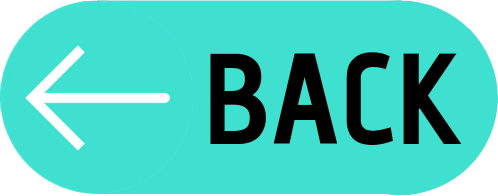
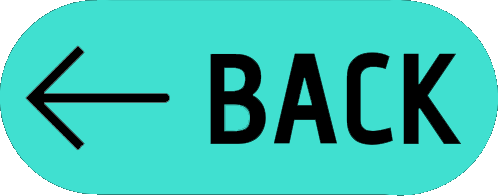
added back button on venues and colleges

diff --git a/templates/venuemain.html b/templates/venuemain.html
@@ -41,6 +41,9 @@
 
     <section class="probootstrap-section">
       <div class="container">
+        <div>
+        <a href="/profile"><img src="{{ url_for('static', filename='images/back.png') }}" width="100px"></a>  
+        </div> 
         <div class="row align-items-center">
           <div class="col-md pl-md-3 pl-0 probootstrap-image-grid">
             {% with messages = get_flashed_messages() %}
@@ -52,11 +55,11 @@
                     </ul>
                 {% endif %}
             {% endwith %}
-            <div class="row">
+            <div class="row" style="padding-top: 20px;">
 
               {% for college in colleges %}
               <div class="col-md-6">
-                <a class="probootstrap-img-item" href="/event/manage"><div style="background-image: url(../static/images/colleges/{{college.img}}); background-position: center;"></div></a>
+                <a class="probootstrap-img-item" href="/venue"><div style="background-image: url(../static/images/colleges/{{college.img}}); background-position: center;"></div></a>
                 <div class="texttest">
                   <p>{{ college.abb }}</p>
                 </div>

diff --git a/templates/dispvenue.html b/templates/dispvenue.html
@@ -42,6 +42,9 @@
 
     <section class="probootstrap-section">
       <div class="container">
+        <div>
+        <a href="/venue/manage"><img src="{{ url_for('static', filename='images/back.png') }}" width="100px"></a>  
+        </div> 
         <div class="row align-items-center">
           <div class="col-md pl-md-3 pl-0 probootstrap-image-grid">
             {% with messages = get_flashed_messages() %}
@@ -53,7 +56,7 @@
                     </ul>
                 {% endif %}
             {% endwith %}
-            <div class="row">
+            <div class="row" style="padding-top: 10px;">
 
               {% for venue in venues %}
               <div class="col-md-4 col-sm-6" style="padding-top: 5px; padding-bottom: 15px;  ">
@@ -75,6 +78,8 @@
         </div>
       </div>
     </section>
+
+
 
     <footer>
      <div class="container-fluid bg-primary py-3">
